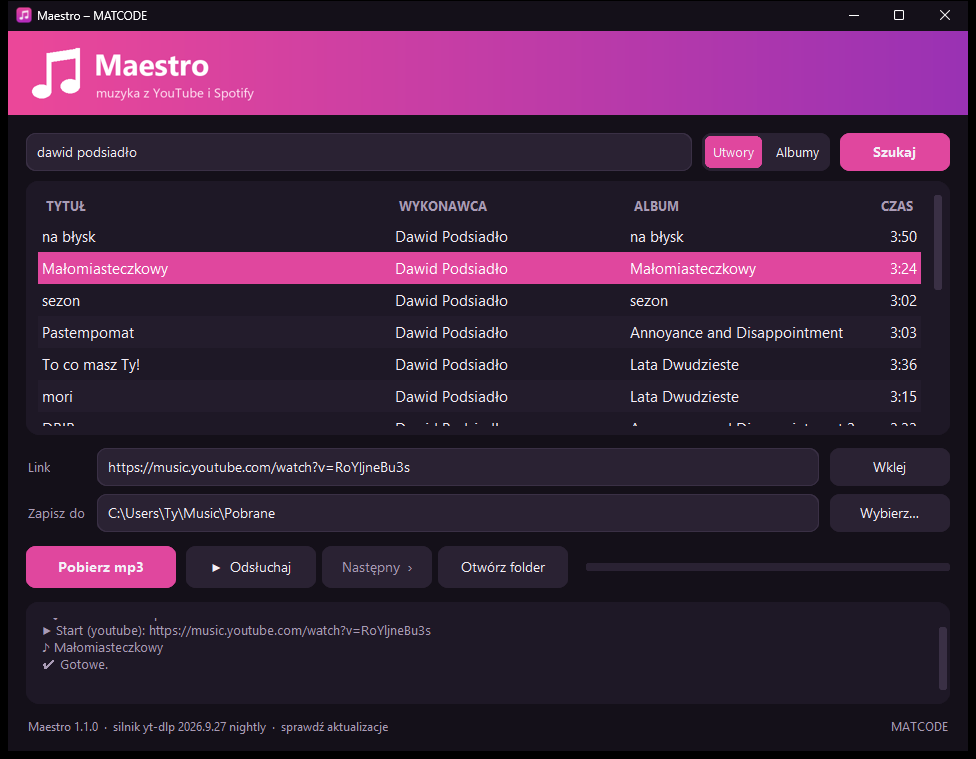
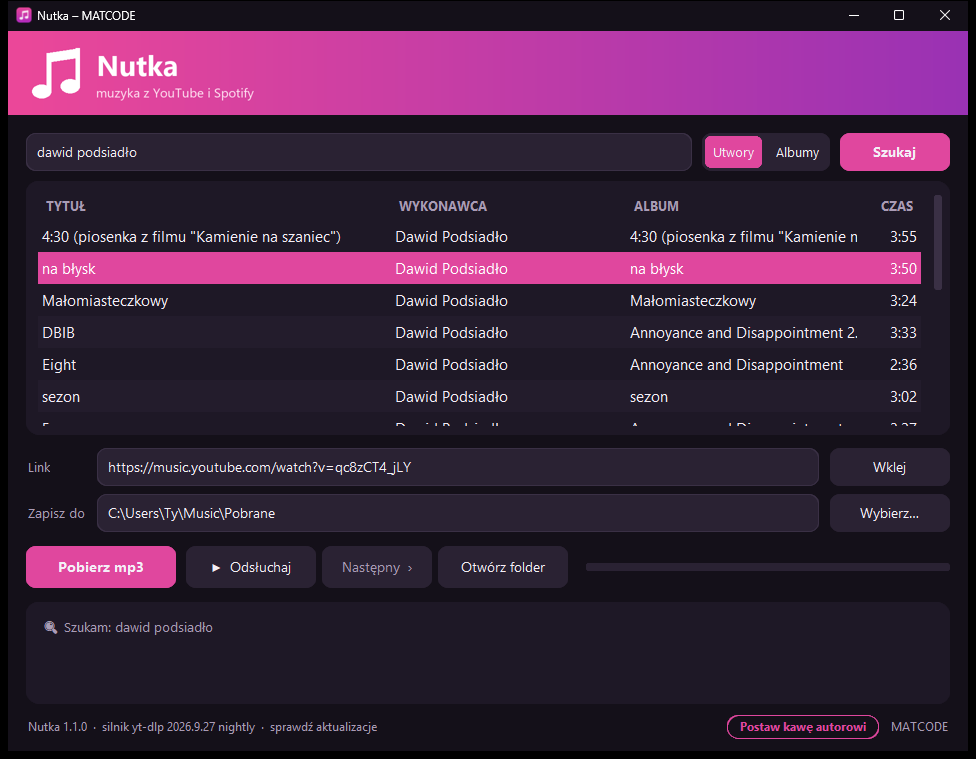
Link do kawy, podpowiedź w polu wyszukiwania, nowe zrzuty i opis ostrzeżeń Windows
- BUYCOFFEE_URL = buycoffee.to/matcode (przycisk „Postaw kawę autorowi” w stopce)
- pole wyszukiwania podpowiada, co wpisać albo wkleić (tytuł, wykonawca, linki)
- README: sekcja Wsparcie, rozszerzony opis ostrzeżenia SmartScreen
- CHANGELOG 1.1.0 uzupełniony o nową nazwę
- nowe zrzuty ekranu w docs/

diff --git a/app.py b/app.py
@@ -30,7 +30,7 @@ import spotify_lista
 
 WERSJA = "1.1.0"  # jedyne źródło wersji: czyta ją zbuduj.ps1 (instalator, wydanie na GitHubie) i aktualizacja_programu
 REPO_GITHUB = "matmiccode/nutka"  # skąd program bierze informację o nowych wersjach (GitHub Releases)
-BUYCOFFEE_URL = ""  # profil na buycoffee.to - pusty = przycisk „Postaw kawę” się nie pokazuje
+BUYCOFFEE_URL = "https://buycoffee.to/matcode"  # profil na buycoffee.to - pusty = przycisk „Postaw kawę” się nie pokazuje
 DOMYSLNY_FOLDER = Path.home() / "Music" / "Pobrane"
 PODPIS = "MATCODE"
 ROWNOLEGLE_POBIERANIA = 3  # lista Spotify: ile utworów naraz

diff --git a/README.md b/README.md
@@ -36,8 +36,10 @@
 2. Uruchom go i przejdź przez instalator (około minuty).
 3. Gotowe – Nutka jest w menu Start (i na pulpicie, jeśli zaznaczysz skrót).
 
-> **„System Windows ochronił ten komputer”?** To ostrzeżenie pojawia się przy programach bez płatnego
-> podpisu cyfrowego. Kliknij **Więcej informacji** → **Uruchom mimo to**.
+> **„System Windows ochronił ten komputer”?** To ostrzeżenie pojawia się przy każdym nowym programie bez
+> płatnego podpisu cyfrowego i z małą liczbą pobrań – nie znaczy, że plik jest groźny. Kliknij
+> **Więcej informacji** → **Uruchom mimo to**. Instalator nie wymaga uprawnień administratora i nie zmienia
+> ustawień systemu; kod programu jest w całości jawny w tym repozytorium.
 
 Wymagania: Windows 10 lub 11 (64-bit), ~400 MB miejsca, internet do wyszukiwania i pobierania.
 
@@ -92,10 +94,15 @@ Budowanie: Python 3.12, [Inno Setup 6](https://jrsoftware.org/isinfo.php), potem
 `powershell -ExecutionPolicy Bypass -File zbuduj.ps1` → `dist\Nutka-Setup.exe`.
 Nowa wersja: podbij `WERSJA` w `app.py`, dopisz sekcję w [CHANGELOG.md](CHANGELOG.md), `zbuduj.ps1 -Wydanie`.
 
+## Wsparcie
+
+Nutka jest darmowa i taka zostanie. Jeśli oszczędziła Ci czasu, możesz [postawić autorowi kawę](https://buycoffee.to/matcode) –
+ale nie musisz. Dziękuję!
+
 ## Licencja
 
 Kod Nutki: [MIT](LICENSE) © MATCODE.
 Instalator zawiera programy i biblioteki innych autorów na ich licencjach (m.in. GPL) – lista w
-[THIRD-PARTY.md](THIRD-PARTY.md). Nutka nie jest powiązany z YouTube, Google ani Spotify.
+[THIRD-PARTY.md](THIRD-PARTY.md). Nutka nie jest powiązana z YouTube, Google ani Spotify.
 
 <div align="center"><sub><b>MATCODE</b> – darmowe aplikacje</sub></div>

diff --git a/CLAUDE.md b/CLAUDE.md
@@ -8,7 +8,7 @@ Podpis autora: **MATCODE** – bez imienia i nazwiska (świadoma decyzja przy pu
 
 ## Moduły
 - `app.py` – okno i cała logika UI. Długie operacje w wątkach, do UI tylko przez `queue` jako `(rodzaj, wartość)` obsługiwane w `_odbierz_logi`.
-  - `WERSJA` = jedyne źródło wersji (czyta ją `zbuduj.ps1`), `REPO_GITHUB`, `BUYCOFFEE_URL` (pusty = przycisk ukryty – użytkownik jeszcze nie ma profilu na buycoffee.to; gdy poda link, wpisać i wydać nową wersję).
+  - `WERSJA` = jedyne źródło wersji (czyta ją `zbuduj.ps1`), `REPO_GITHUB`, `BUYCOFFEE_URL` (= https://buycoffee.to/matcode; pusty = przycisk „Postaw kawę autorowi” ukryty). Zostajemy przy buycoffee.to (decyzja użytkownika).
 - `spotify_lista.py` – Spotify → `Lista`/`Utwor` przez **spotapi** (publiczne API web playera, bez kluczy; ~5 s/strona 343 utw.),
   `dopasuj()` w YouTube Music (ytmusicapi: najpierw „songs” ±7 s, potem „videos” ±15 s; tytuł/wykonawca znormalizowane),
   `sciezka_pliku()` (stała nazwa = synchronizacja: istniejący plik = „masz już”), `otaguj()` (mutagen: tagi + okładka ze Spotify).

diff --git a/CHANGELOG.md b/CHANGELOG.md
@@ -3,8 +3,13 @@
 Format: najnowsze na górze. Sekcja wersji jest jednocześnie opisem „Co nowego”, który program pokazuje
 przy proponowaniu aktualizacji – pisz ją dla zwykłego użytkownika.
 
-## [1.1.0] – 2026-10-01
+## [1.1.0] – 2026-10-02
 
+- **Nowa nazwa: Nutka** (wcześniej Maestro), nowy nagłówek i ekran startowy. Przy pierwszej instalacji Nutka
+  stoi obok starego programu – starego Maestro możesz odinstalować w Ustawieniach Windows.
+- Podpowiedź w polu wyszukiwania mówi teraz wprost, co można wpisać albo wkleić (tytuł, wykonawca, link
+  do utworu, albumu lub playlisty z YouTube i Spotify).
+- W stopce jest przycisk „Postaw kawę autorowi” – całkowicie dobrowolny.
 - **Playlisty i albumy ze Spotify**: wklej link, a Nutka pokaże listę utworów. Odznacz, czego nie chcesz,
   i kliknij „Pobierz zaznaczone”. Wczytanie playlisty trwa kilka sekund, pobieranie idzie po 3 utwory naraz.
 - **Synchronizacja**: przy ponownym wczytaniu tej samej playlisty Nutka pokazuje, które utwory już masz,

diff --git a/THIRD-PARTY.md b/THIRD-PARTY.md
@@ -23,4 +23,4 @@ pod poniższymi adresami. Część z nich jest na licencji GPL, dlatego cały ko
 Pełne teksty licencji: w katalogach poszczególnych bibliotek w folderze programu (`_internal\*.dist-info`)
 oraz `narzedzia\LICENSE-ffmpeg.txt`.
 
-Nutka nie jest powiązany z YouTube, Google ani Spotify. Nazwy i znaki towarowe należą do ich właścicieli.
+Nutka nie jest powiązana z YouTube, Google ani Spotify. Nazwy i znaki towarowe należą do ich właścicieli.
